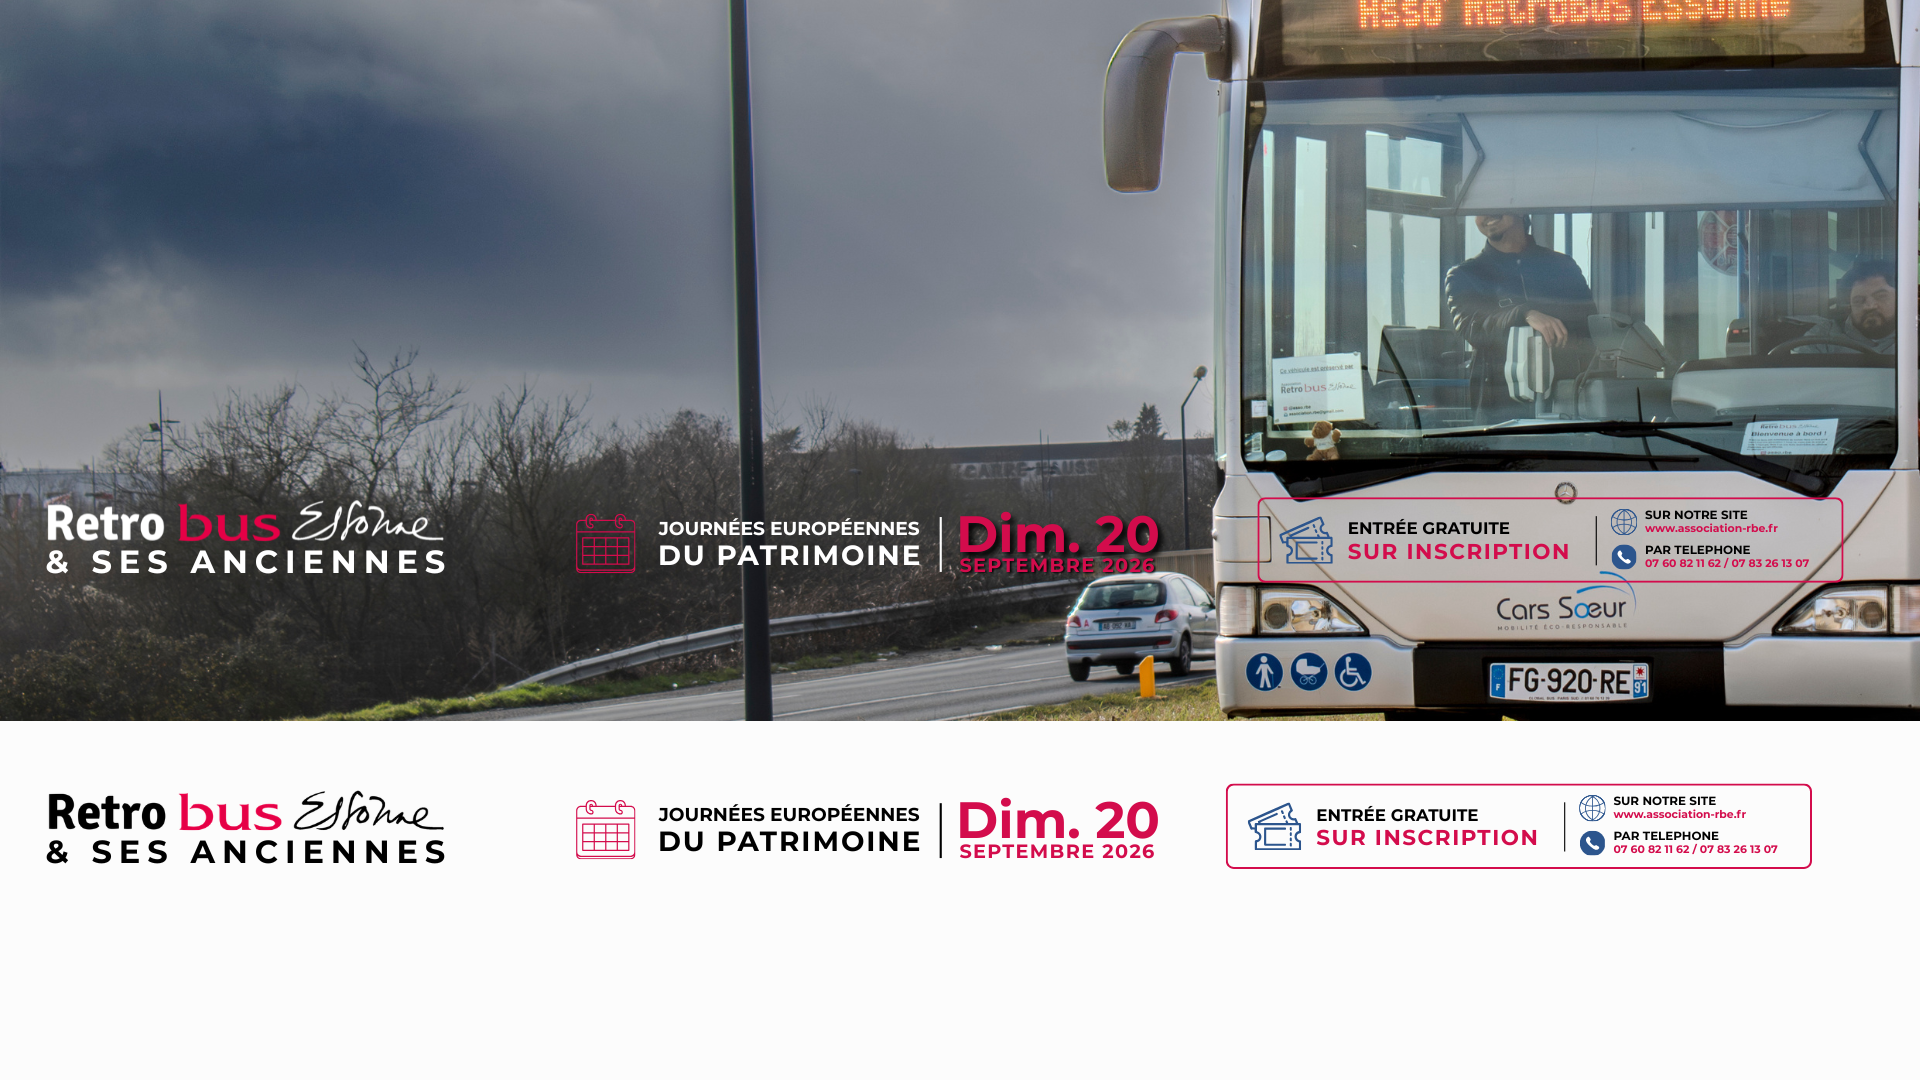
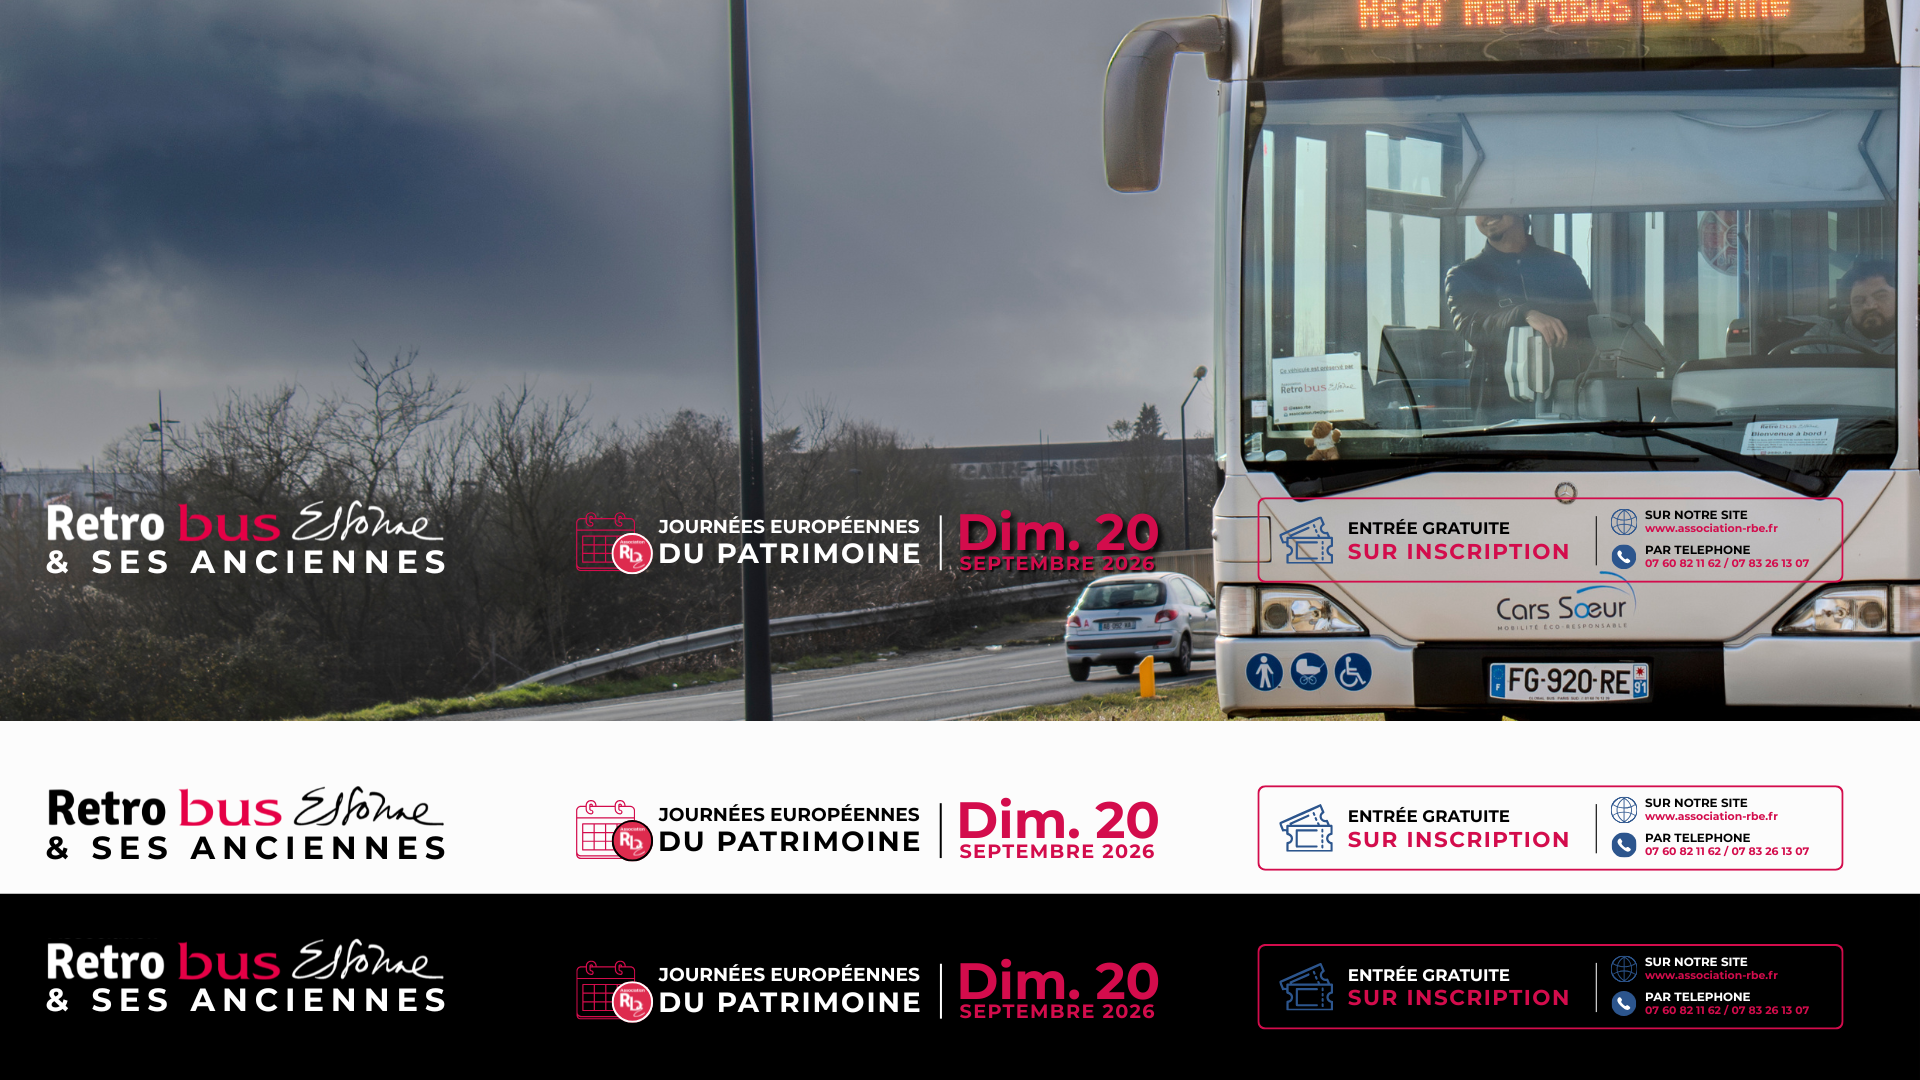
mise à jour

diff --git a/src/pages/Home.jsx b/src/pages/Home.jsx
@@ -122,11 +122,10 @@ export default function Home() {
           <div className="hero-content">
             <div className="hero-box">
               <Heading as="h1" size="2xl" lineHeight="1.05">
-                Préserver & partager le patrimoine autobus en Essonne
+                Préserver & partager le patrimoine automobile en Essonne
               </Heading>
               <Text mt={4} fontSize="lg" color="whiteAlpha.800">
-                RétroBus Essonne restaure des autobus emblématiques, organise des sorties et des
-                animations pour faire découvrir l'histoire des transports.
+                L'association RétroBus Essonne est une association régie par la Loi 1901 qui préserve et partage le patrimoine automobile en Essonne.
               </Text>
               <Stack 
                 direction="column"
@@ -142,7 +141,7 @@ export default function Home() {
                   color="white"
                   _hover={{ opacity: 0.9 }}
                 >
-                  Découvrir nos véhicules
+                  Découvrir notre collection
                 </Button>
 
                 <Button
@@ -169,7 +168,7 @@ export default function Home() {
                 <VStack spacing={2} align="start">
                   <Heading as="h2" size="lg">Notre collection</Heading>
                   <Text color="gray.600" fontSize="sm">
-                    Notre véhicule phare, un Mercedes Citaro de première génération, est le témoin vivant de l'évolution des transports en commun en Île-de-France. Découvrez-le ci-dessous ainsi que d'autres trésors de notre collection.
+                    Découvrez un condensé de notre collection de véhicules historiques, témoins de l'évolution des transports en commun en Île-de-France. Chaque véhicule a une histoire unique à raconter !
                   </Text>
                 </VStack>
 
@@ -283,7 +282,7 @@ export default function Home() {
                   <Box fontSize="3xl" mb={4}>🎯</Box>
                   <Heading as="h3" size="sm" mb={3} color="var(--rbe-red)">Mission</Heading>
                   <Text fontSize="sm">
-                    Préserver, restaurer et faire revivre le patrimoine des transports publics franciliens à travers nos véhicules.
+                    Préserver, restaurer et faire revivre le patrimoine automobile à travers nos véhicules.
                   </Text>
                 </Box>
                 
@@ -303,7 +302,7 @@ export default function Home() {
                   <Box fontSize="3xl" mb={4}>🚍</Box>
                   <Heading as="h3" size="sm" mb={3} color="var(--rbe-red)">Passion</Heading>
                   <Text fontSize="sm">
-                    Sauvegarder des autobus emblématiques qui ont marqué l'histoire des transports en Île-de-France.
+                    Sauvegarder des véhicules emblématiques qui ont marqué l'histoire des mobilités partout dans le monde.
                   </Text>
                 </Box>
                 
